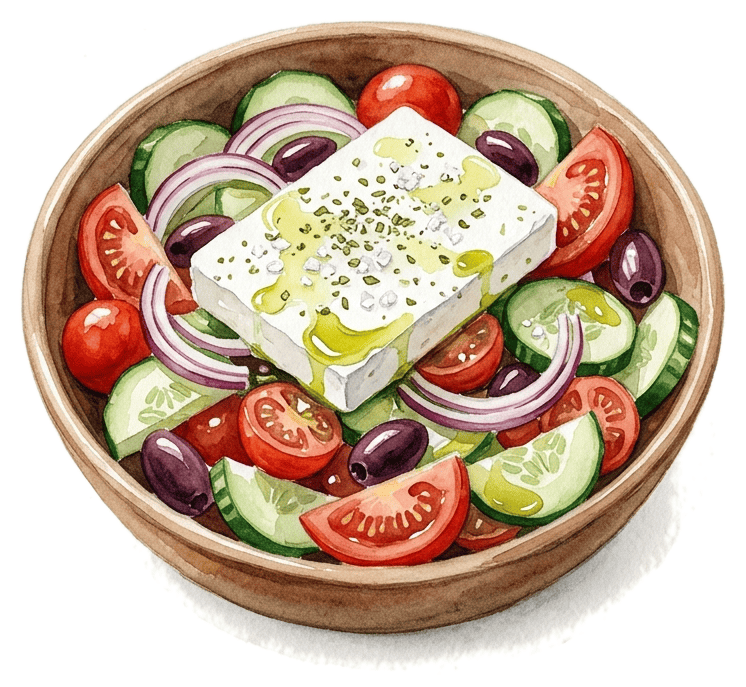
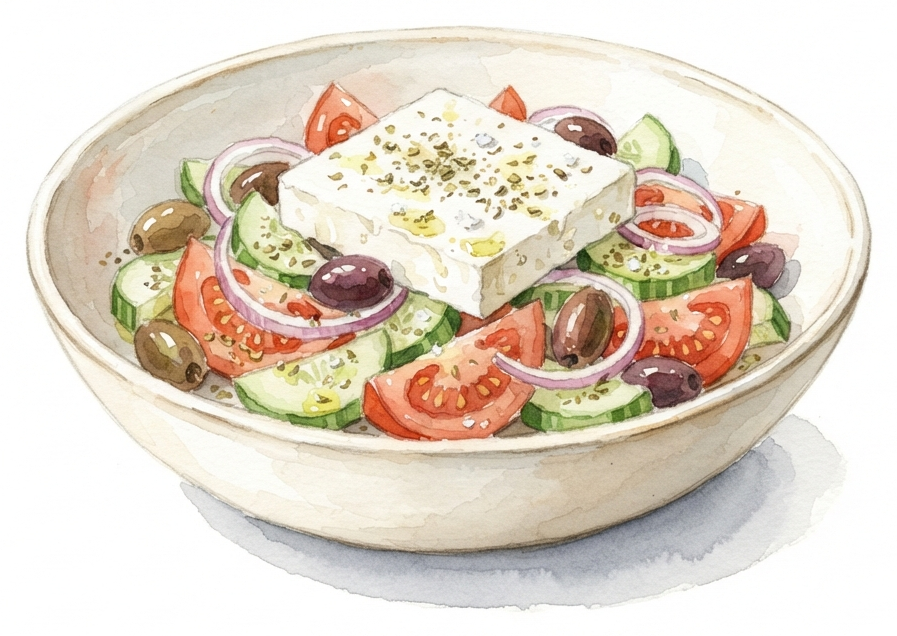
Update cover mosaic tile for the new horiatiki image
Regenerated cover/mosaic/horiatiki.png from the updated
images/horiatiki.png (scripts/generate_cover_mosaic_crops.py), and
recomputed its \frontgrid object-fit-contain w/h since the new
image's aspect ratio changed the cell fit from height-constrained to
width-constrained.

diff --git a/cover/cover.tex b/cover/cover.tex
@@ -189,7 +189,7 @@
   % tile from the next, instead of two photos that both happen to fill
   % their cell on the touching axis butting straight into each other.
   \newlength\gridgutter \setlength\gridgutter{1.5mm}
-  \def\frontgrid{aardappel-groente-vlees/27.718mm/17.770mm,arretjescake/27.718mm/18.417mm,asperge-lasagne/27.718mm/15.337mm,blinis-vier-toppings/27.718mm/14.721mm,bloemkoolpasta-hero/25.971mm/22.729mm,bloemkoolquiche/27.718mm/17.185mm,bobotie/27.718mm/12.812mm,broccoli-uit-de-oven-hero/27.718mm/17.308mm,broccolipasta-witvis-olijven-rode-ui/27.718mm/19.187mm,brood/27.718mm/14.999mm,broodje-hamburger/27.718mm/14.383mm,broodje-knakworst/27.718mm/16.354mm,burritos/27.718mm/15.799mm,chili-con-carne/27.718mm/20.934mm,ciabatta/27.718mm/18.509mm,couscous/27.718mm/21.281mm,doner-kebab/27.718mm/17.979mm,fajitas/24.760mm/22.729mm,falafel/27.718mm/15.584mm,flammkuchen/27.718mm/15.676mm,focaccia/27.718mm/16.138mm,gegrilde-courgette/27.718mm/21.946mm,geroerbakte-spruitjes-hero/27.718mm/21.090mm,gevulde-paprika-hero/27.718mm/18.602mm,gnocchi/27.718mm/15.522mm,gnocchi-sorrentina/27.718mm/15.368mm,gnocchi-zongedroogde-tomaten-hero/27.718mm/18.119mm,groene-salade/27.718mm/22.000mm,hamburgerbolletjes/27.718mm/17.370mm,horiatiki/24.681mm/22.729mm,involtini-di-maiale-hero/27.718mm/17.401mm,jambalaya/27.718mm/18.411mm,kalkoen-in-spek/27.718mm/16.877mm,kipfilet-parmezaan-knoflook/26.924mm/22.729mm,kippensoep-simpel/27.718mm/20.851mm,kofta/27.718mm/17.955mm,kokos-vis/27.718mm/21.054mm,lasagne-simpel/27.718mm/18.417mm,mac-n-cheese/27.718mm/18.201mm,meringues/27.718mm/18.848mm}
+  \def\frontgrid{aardappel-groente-vlees/27.718mm/17.770mm,arretjescake/27.718mm/18.417mm,asperge-lasagne/27.718mm/15.337mm,blinis-vier-toppings/27.718mm/14.721mm,bloemkoolpasta-hero/25.971mm/22.729mm,bloemkoolquiche/27.718mm/17.185mm,bobotie/27.718mm/12.812mm,broccoli-uit-de-oven-hero/27.718mm/17.308mm,broccolipasta-witvis-olijven-rode-ui/27.718mm/19.187mm,brood/27.718mm/14.999mm,broodje-hamburger/27.718mm/14.383mm,broodje-knakworst/27.718mm/16.354mm,burritos/27.718mm/15.799mm,chili-con-carne/27.718mm/20.934mm,ciabatta/27.718mm/18.509mm,couscous/27.718mm/21.281mm,doner-kebab/27.718mm/17.979mm,fajitas/24.760mm/22.729mm,falafel/27.718mm/15.584mm,flammkuchen/27.718mm/15.676mm,focaccia/27.718mm/16.138mm,gegrilde-courgette/27.718mm/21.946mm,geroerbakte-spruitjes-hero/27.718mm/21.090mm,gevulde-paprika-hero/27.718mm/18.602mm,gnocchi/27.718mm/15.522mm,gnocchi-sorrentina/27.718mm/15.368mm,gnocchi-zongedroogde-tomaten-hero/27.718mm/18.119mm,groene-salade/27.718mm/22.000mm,hamburgerbolletjes/27.718mm/17.370mm,horiatiki/27.718mm/19.653mm,involtini-di-maiale-hero/27.718mm/17.401mm,jambalaya/27.718mm/18.411mm,kalkoen-in-spek/27.718mm/16.877mm,kipfilet-parmezaan-knoflook/26.924mm/22.729mm,kippensoep-simpel/27.718mm/20.851mm,kofta/27.718mm/17.955mm,kokos-vis/27.718mm/21.054mm,lasagne-simpel/27.718mm/18.417mm,mac-n-cheese/27.718mm/18.201mm,meringues/27.718mm/18.848mm}
   \def\backgrid{nasi/22.598mm/20.286mm,paella-hero/22.598mm/15.342mm,parmigiana-melanzane/22.598mm/14.063mm,pasta-amatriciana/22.598mm/18.321mm,pasta-blauwe-kaas/22.598mm/16.503mm,pasta-bolognese/22.598mm/21.546mm,pasta-prei-hamblokjes-olijven/22.598mm/17.900mm,pasta-primavera/22.598mm/15.317mm,pasta-scarpariello/22.598mm/15.969mm,pastinaaksoep/22.598mm/18.401mm,pita/22.598mm/18.706mm,pretzels/22.598mm/11.349mm,quesadillas/22.598mm/13.685mm,quiche-chorizo-geitenkaas/22.598mm/12.078mm,quiche-groente-cirkel/22.598mm/16.421mm,quiche-groente-geitenkaas/22.598mm/13.383mm,quiche-ham-prei/22.598mm/12.555mm,quiche-lorraine/22.598mm/14.614mm,ravioli-rode-pesto-hero/22.598mm/16.045mm,roti/22.598mm/16.703mm,roze-koeken-hero/22.598mm/13.413mm,sajoer-boontjes-hero/22.598mm/16.808mm,salade-honing-mosterddressing-hero/22.598mm/17.208mm,saltimbocca/22.598mm/13.308mm,sauzijcenbroodjes/22.598mm/14.890mm,schiacciata-hero/22.598mm/11.801mm,semifreddo/22.598mm/15.898mm,shakshuka/22.598mm/14.789mm,spinazie-quiche/22.598mm/13.132mm,spruitenstamp-hero/22.598mm/16.885mm,tarte-tatin-witlof/22.598mm/13.911mm,tomaten-pestorisotto-hero/22.598mm/14.940mm,tompouce-geitenkaas-hero/22.598mm/17.376mm,tortellini-al-forno-hero/22.598mm/14.538mm,venkel-risotto-hero/22.598mm/24.243mm,worstjes-rode-rijst-salade/22.598mm/15.492mm}
 
   \newlength\frontcw \setlength\frontcw{\dimexpr\gridw/5\relax} % 5 columns
